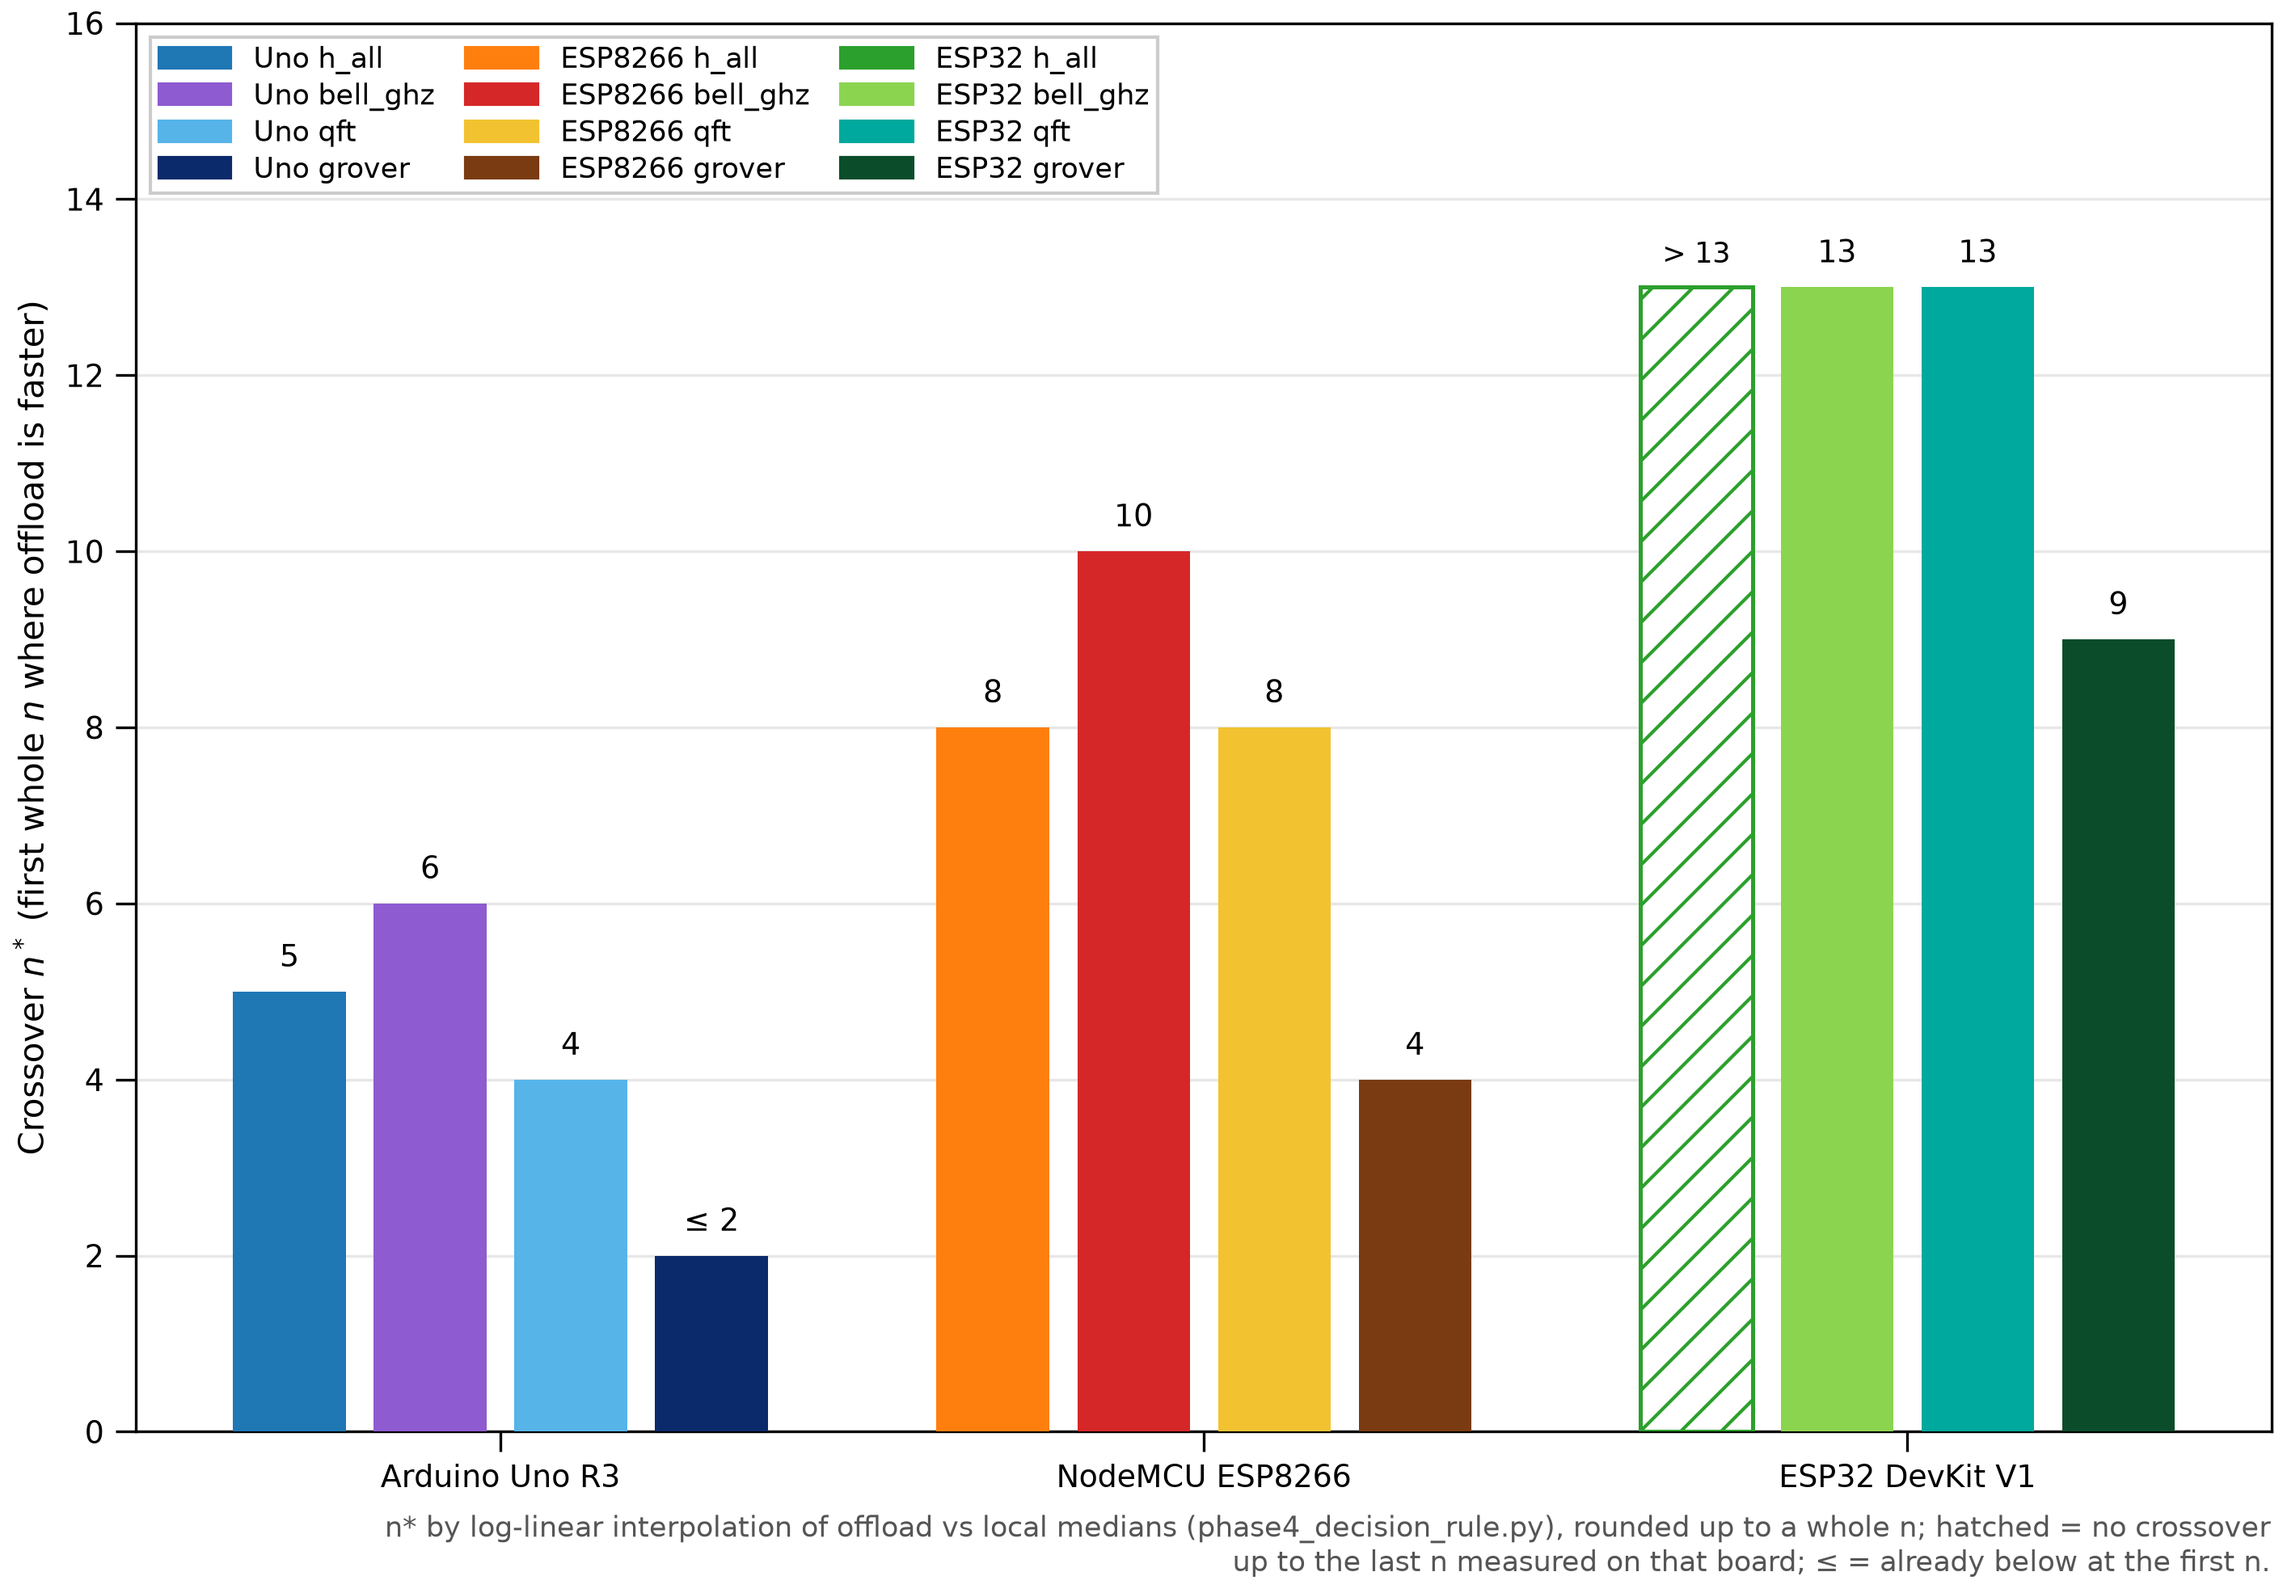
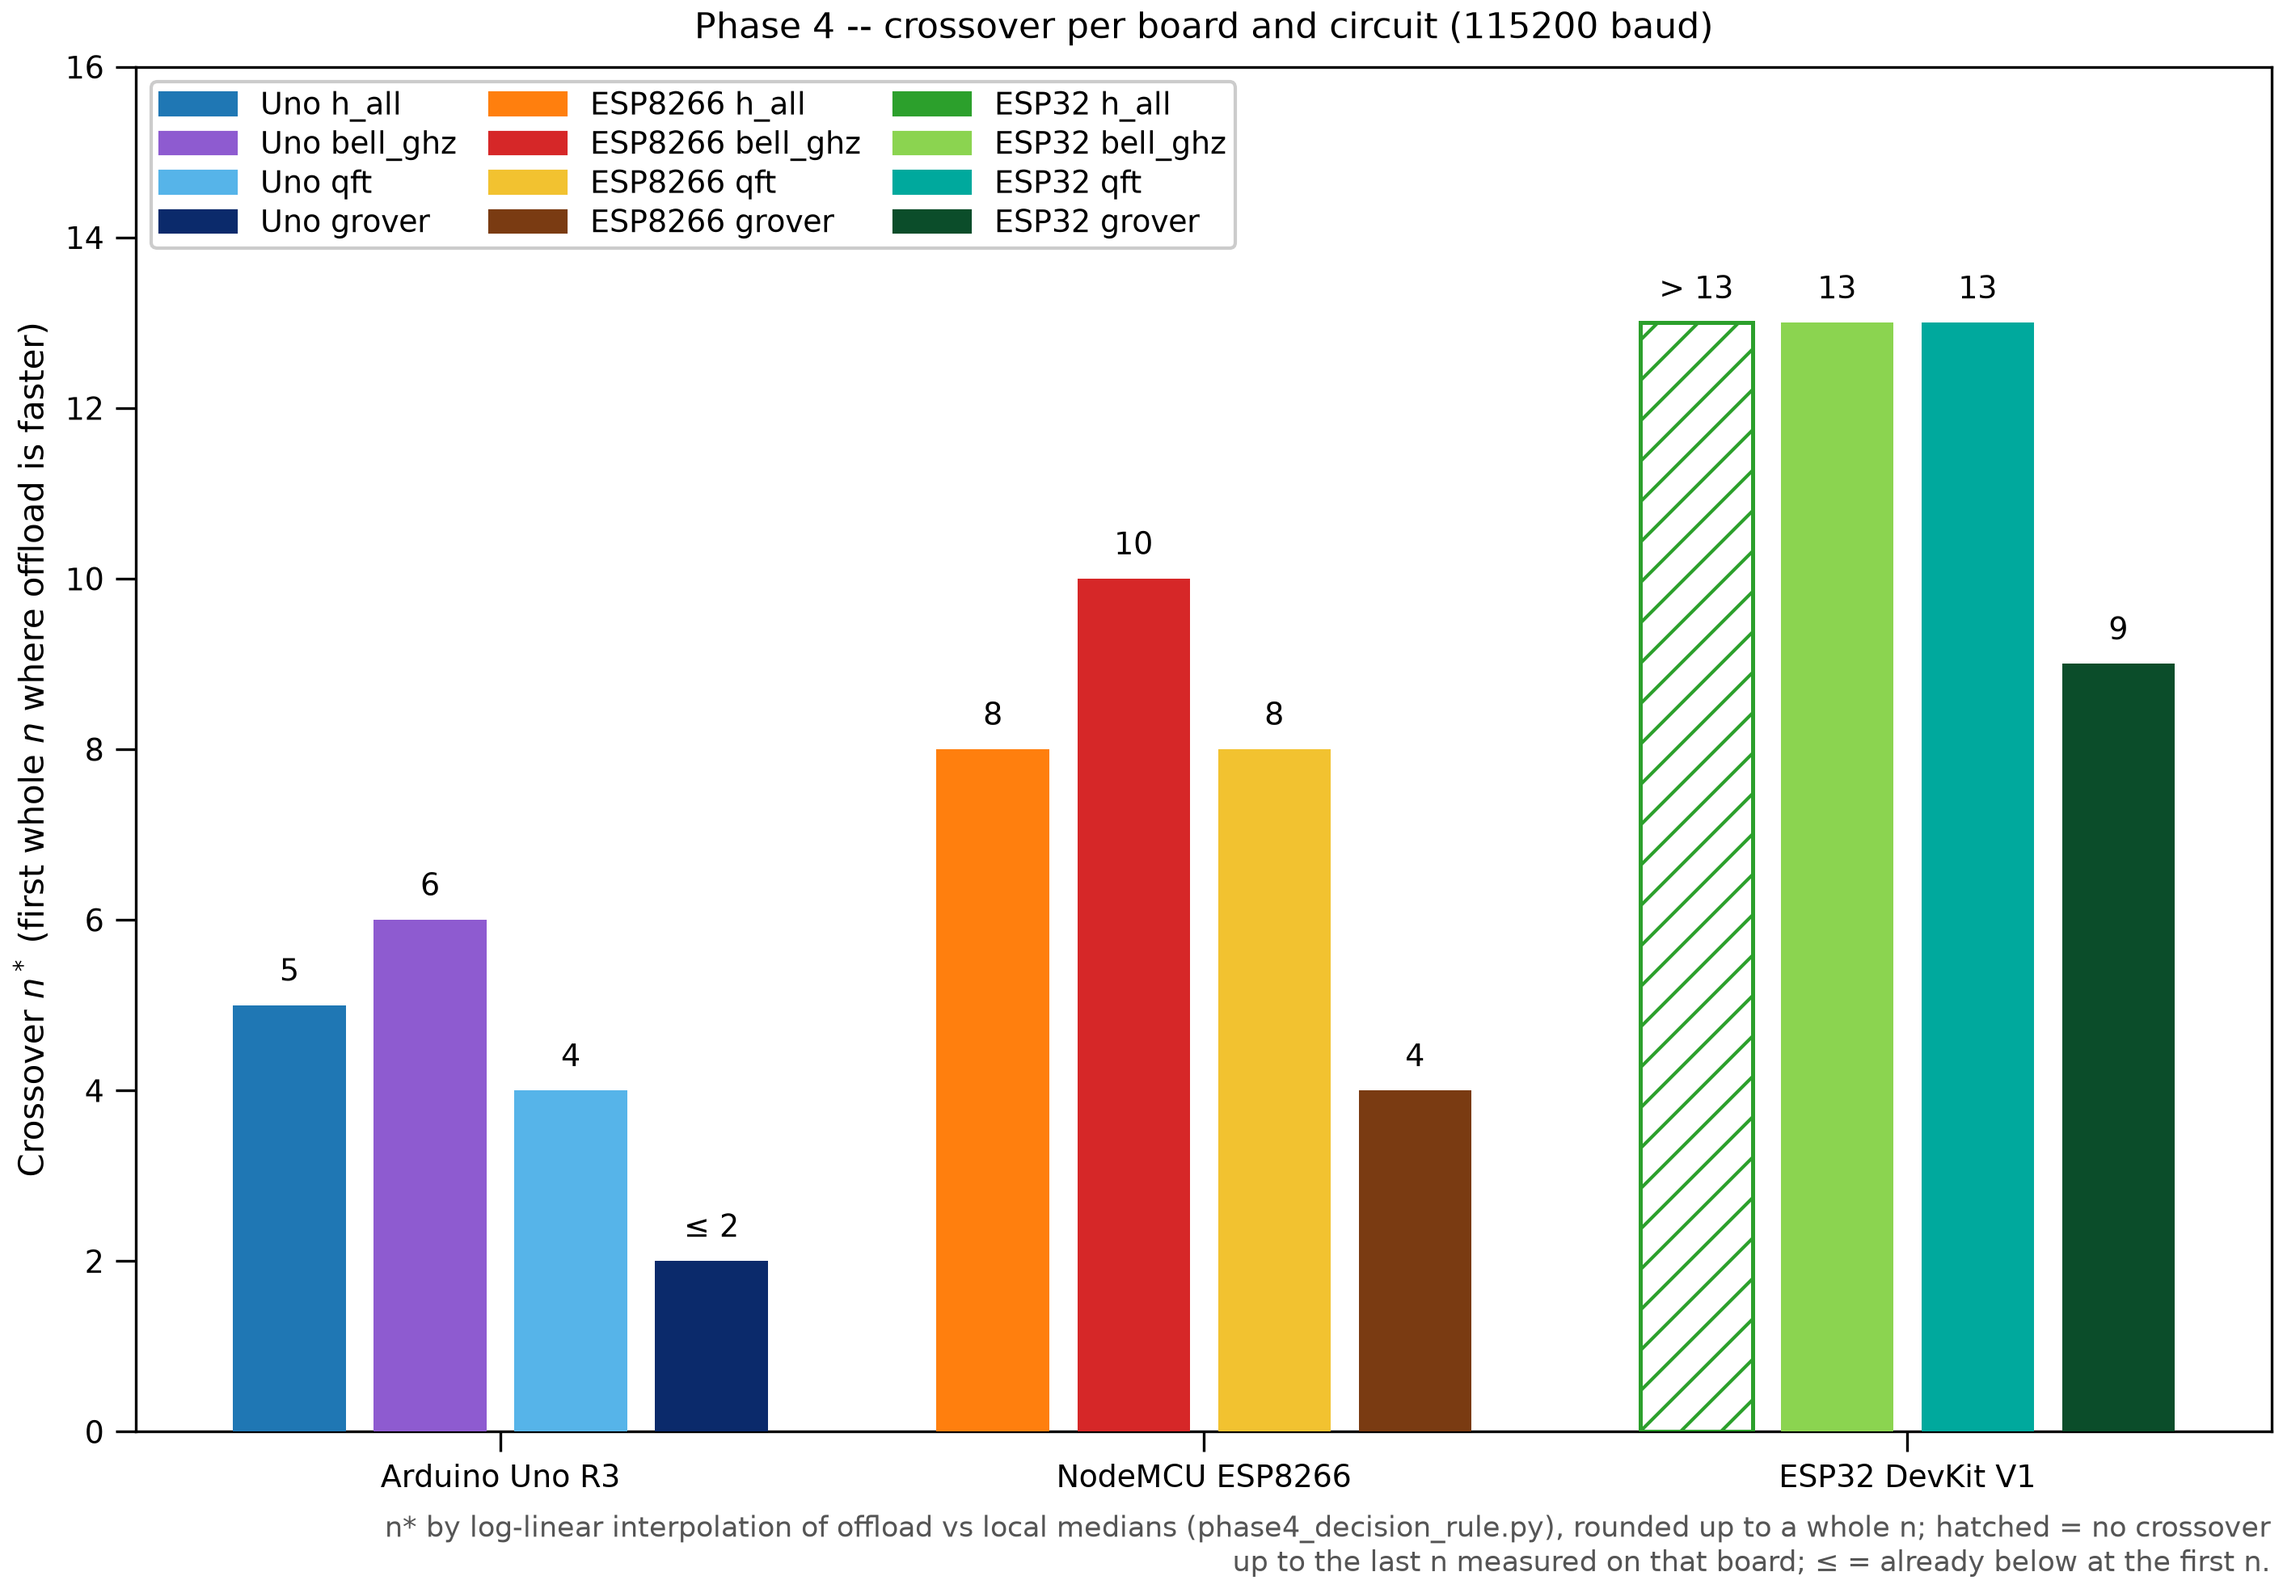
figures: phase 4 crossover bar chart in the graph-create house style (no grid, centred title, house legend and palette)

diff --git a/analysis/phase4_all_in_one.py b/analysis/phase4_all_in_one.py
@@ -2,7 +2,8 @@
 # phase4_all_in_one.py
 # Phase 4 in one chart: the measured crossover n* (offload becomes faster than local) for every board and circuit,
 # from data/processed/phase4/crossover.csv (run analysis/phase4_decision_rule.py first). Same 12 colours as
-# phase2_all_in_one.py (one tone family per board). Output: data/figures/phase4/all_boards_all_circuits.png
+# phase2_all_in_one.py (one tone family per board). Drawn in the graph-create house style (analysis/vendor/plot_style.py): no grid, outward ticks, black
+# spines, centred title, legend upper left with one column per board; still a bar chart. Output: data/figures/phase4/all_boards_all_circuits.png
 #
 # Use:  .venv/bin/python analysis/phase4_all_in_one.py
 
@@ -15,20 +16,22 @@ from matplotlib.patches import Patch
 
 sys.path.insert(0, str(Path(__file__).resolve().parent))
 import _graph_data as gd  # noqa: E402
-from phase2_all_in_one import COLORS  # noqa: E402
-from shared import plot_style as ps  # noqa: E402
+from shared import plot_style as ps  # noqa: E402  (board / circuit order and labels only)
+
+sys.path.insert(0, str(Path(__file__).resolve().parent / "vendor"))
+import plot_style as house  # noqa: E402  (vendored graph-create style)
 
 
 def main():
-    ps.apply_style()
+    house.apply_style()
     df = pd.read_csv(gd.REPO_ROOT / "data" / "processed" / "phase4" / "crossover.csv")
     rows = {(r.board, r.circuit): r for r in df.itertuples()}
     nb, nc = len(ps.BOARD_ORDER), len(ps.CIRCUIT_ORDER)
-    fig, ax = plt.subplots(figsize=(9.4, 6.2), layout="constrained")
+    fig, ax = plt.subplots(constrained_layout=True)
     handles = []
     for bi, b in enumerate(ps.BOARD_ORDER):
         for ci, c in enumerate(ps.CIRCUIT_ORDER):
-            col = COLORS[bi * nc + ci]
+            col = house.family(bi)[ci]               # board = colour family, circuit = shade (house palette)
             x = bi * (nc + 1) + ci
             r = rows.get((b, c))
             handles.append(Patch(color=col, label=f"{ps.BOARD_SHORT[b]} {c}"))
@@ -37,7 +40,7 @@ def main():
             if r.flag == "none_in_range":     # no crossover up to the last common n: bar to that n, hatched, labelled
                 top = int(str(r.common_n).split("..")[1])
                 ax.bar(x, top, color="white", edgecolor=col, hatch="//", linewidth=1.2, zorder=3)
-                ax.text(x, top + 0.2, f"> {top}", ha="center", va="bottom", fontsize=8.5)
+                ax.text(x, top + 0.2, f"> {top}", ha="center", va="bottom", fontsize=9)
                 continue
             k = int(r.integer_n_star)     # n* rounded up: the first whole n at which offload is faster
             ax.bar(x, k, color=col, zorder=3)
@@ -46,12 +49,14 @@ def main():
     ax.set_xticks([bi * (nc + 1) + (nc - 1) / 2 for bi in range(nb)], [ps.BOARD_LABEL[b] for b in ps.BOARD_ORDER])
     ax.set_ylabel("Crossover $n^*$ (first whole $n$ where offload is faster)")
     ax.set_ylim(0, 16)
-    ax.yaxis.grid(True, alpha=0.3, zorder=0)
-    ax.legend(handles=handles, loc="upper left", fontsize=8.5, ncol=3)
-    ps.suptitle(fig, "Phase 4 -- crossover per board and circuit (115200 baud)", fontsize=10.5)
+    leg = ax.legend(handles=handles, loc="upper left", ncol=nb)
+    leg.set_zorder(2.4)
+    ax.set_title("Phase 4 -- crossover per board and circuit (115200 baud)")
     gd.footnote(fig, "n* by log-linear interpolation of offload vs local medians (phase4_decision_rule.py), rounded up to a whole n; "
                      "hatched = no crossover up to the last n measured on that board; ≤ = already below at the first n.")
-    print(ps.save_figure_png_only(fig, gd.REPO_ROOT / "data" / "figures" / "phase4", "all_boards_all_circuits"))
+    out = gd.REPO_ROOT / "data" / "figures" / "phase4" / "all_boards_all_circuits.png"
+    house.save_figure(fig, str(out))
+    print(out)
 
 
 if __name__ == "__main__":
